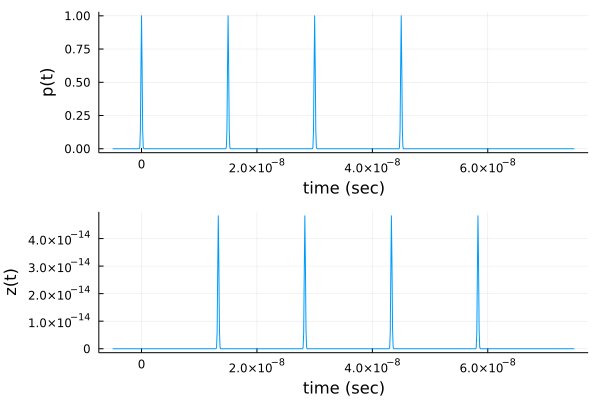
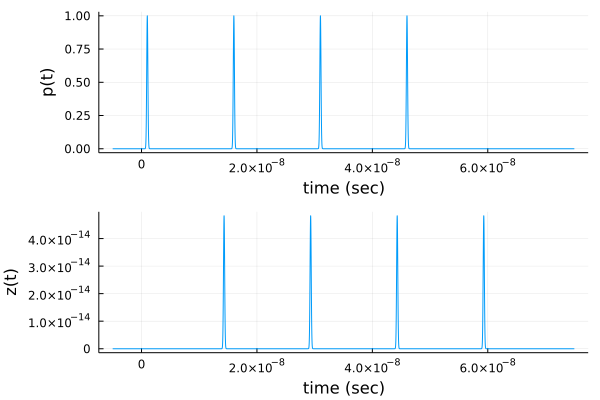
updated scneario C STATdir

diff --git a/docs/src/stationaryDirectionSource/stationaryDirSource.md b/docs/src/stationaryDirectionSource/stationaryDirSource.md
@@ -256,18 +256,19 @@ using Plots
 𝐩ₛ = [0.0, 0.0]
 𝐩ᵣ = [0.0, 0.0]
 T  = 15.0e-9
-p(t) = δn(t,1.0e-10) + δn(t-T,1.0e-10) + δn(t-2T,1.0e-10)+ δn(t-3T,1.0e-10)
+tₚ = 1.0e-9
+p(t) = δn(t-tₚ,1.0e-10) + δn(t-T-tₚ,1.0e-10) + δn(t-2T-tₚ,1.0e-10)+ δn(t-3T-tₚ,1.0e-10)
 α₁ = 0.7; 𝛏₁ = [2.0,0.0]
 α₂ = 0.7; 𝛏₂ = [-2.0,0.0]
 α₃ = 0.7; 𝛏₃ = [0.0,2.0]
 α₄ = 0.7; 𝛏₄ = [0.0,-2.0]
 f₀ = 1/4T
-𝐛(t) = [cos(2π*f₀*t),sin(2π*f₀*t)]
+𝐛(t) = [cos(2π*f₀*(t-tₚ)),sin(2π*f₀*(t-tₚ))]
 G(θ) = 𝒩ᵤ(θ, μ=0.0, σ=π/16)
 q = STATsourceD(𝐩ₛ,p,𝐛,G)
 r = pointReflector([𝛏₁,𝛏₂,𝛏₃,𝛏₄],[α₁,α₂,α₃,α₄],[q])
 z = STATreceiverD(r,𝐩ᵣ,𝐛,G)
-t = -5.0e-9:1.0e-10:75.0e-9
+t = -5.0e-9:1.0e-11:75.0e-9
 p1 = plot(t,p, xlab="time (sec)", ylab="p(t)", legend=:false)
 p2 = plot( t, z(t), xlab="time (sec)", ylab="z(t)", legend=:false)
 plot(p1,p2,layout=(2,1))
@@ -277,17 +278,17 @@ plot(p1,p2,layout=(2,1))
 
 ### Inverse Modeling
 
-Given the scenario C assumptions, we obtained the received signal, $z(t)$. Now we can estimate the reflector function by considering the transmitted signal as impulse train $p(t)=∑_{k=0}^{M-1}δ(t-kT)$ as follows
+Given the scenario C assumptions, we obtained the received signal, $z(t)$. Now we can estimate the reflector function by considering the transmitted signal as impulse train $p(t)=∑_{k=0}^{M-1}δ(t-t_p-kT)$ as follows
 
 We incorporated the time delays in the received signal, $z(t)$ with respect to each periodic impulse as follows
 
 $z_\mathrm{t} = z(t+kT)$ where T is period of the impulse train
 
-In order to consider the total time delay in the time-varying beam with respect to each periodic impulse, we computed the reflector function corresponding to each periodic impulse as follows
+In order to consider the transmitted time of the time-varying beam with respect to each periodic impulse, we computed the reflector function corresponding to each periodic impulse as follows
 
-$f_k(\bm{\xi})=\dfrac{z_\mathrm{t}\left(\frac{2\|\bm{\xi}-\mathbf{p}_\mathrm{s}\|}{\mathrm{c}}\right)\mathrm{D}_\mathrm{sk}(\bm{\xi})}{\mathrm{A}^2\big(\frac{\|\bm{\xi}-\mathbf{p}_\mathrm{s}\|}{\mathrm{c}}\big)}$
+$f_k(\bm{\xi})=\dfrac{z_\mathrm{t}\left(t_p+\frac{2\|\bm{\xi}-\mathbf{p}_\mathrm{s}\|}{\mathrm{c}}\right)\mathrm{D}_\mathrm{sk}(\bm{\xi})}{\mathrm{A}^2\big(\frac{\|\bm{\xi}-\mathbf{p}_\mathrm{s}\|}{\mathrm{c}}\big)}$
 
-where $\mathrm{D}_\mathrm{sk}(\bm{\xi}) = \mathbf{G}\big(∠(𝐛(\frac{2\|\bm{\xi}-\mathbf{p}_\mathrm{s}\|}{\mathrm{c}}+kT), \bm{\xi}.-\mathbf{p}_\mathrm{s})\big)$ 
+where $\mathrm{D}_\mathrm{sk}(\bm{\xi}) = \mathbf{G}\big(∠(𝐛(t_p-kT), \bm{\xi}.-\mathbf{p}_\mathrm{s})\big)$ 
 
 Finally, the reflector function for the scenario is given as follows
 
@@ -299,33 +300,34 @@ using Plots
 𝐩ₛ = [0.0, 0.0]
 𝐩ᵣ = [0.0, 0.0]
 T  = 15.0e-9
-p(t) = δn(t,1.0e-10) + δn(t-T,1.0e-10) + δn(t-2T,1.0e-10)+ δn(t-3T,1.0e-10)
+tₚ = 1.0e-9
+p(t) = δn(t-tₚ,1.0e-10) + δn(t-T-tₚ,1.0e-10) + δn(t-2T-tₚ,1.0e-10)+ δn(t-3T-tₚ,1.0e-10)
 α₁ = 0.7; 𝛏₁ = [2.0,0.0]
 α₂ = 0.7; 𝛏₂ = [-2.0,0.0]
 α₃ = 0.7; 𝛏₃ = [0.0,2.0]
 α₄ = 0.7; 𝛏₄ = [0.0,-2.0]
 f₀ = 1/4T
-𝐛(t) = [cos(2π*f₀*t),sin(2π*f₀*t)]
+𝐛(t) = [cos(2π*f₀*(t-tₚ)),sin(2π*f₀*(t-tₚ))]
 G(θ) = 𝒩ᵤ(θ, μ=0.0, σ=π/16)
 q = STATsourceD(𝐩ₛ,p,𝐛,G)
 r = pointReflector([𝛏₁,𝛏₂,𝛏₃,𝛏₄],[α₁,α₂,α₃,α₄],[q])
 z = STATreceiverD(r,𝐩ᵣ,𝐛,G)
 zₜ = PulseTrainReceivers(z,T)
-zₜ = PulseTrainReceivers(z,T)
-Dₛ₁(ξ::Vector{Float64}) = G(angleBetween(𝐛(2norm(ξ-𝐩ₛ)/c), ξ.-𝐩ₛ))
-f₁(ξ::Vector{Float64}) = (zₜ(2(norm(ξ-𝐩ₛ))/c).*Dₛ₁(ξ))/(A(norm(ξ-𝐩ₛ)/c))^2
-Dₛ₂(ξ::Vector{Float64}) = G(angleBetween(𝐛(T+2norm(ξ-𝐩ₛ)/c), ξ.-𝐩ₛ))
-f₂(ξ::Vector{Float64}) = (zₜ(2(norm(ξ-𝐩ₛ))/c).*Dₛ₂(ξ))/(A(norm(ξ-𝐩ₛ)/c))^2
-Dₛ₃(ξ::Vector{Float64}) = G(angleBetween(𝐛(2T+2norm(ξ-𝐩ₛ)/c), ξ.-𝐩ₛ))
-f₃(ξ::Vector{Float64}) = (zₜ(2(norm(ξ-𝐩ₛ))/c).*Dₛ₃(ξ))/(A(norm(ξ-𝐩ₛ)/c))^2
-Dₛ₄(ξ::Vector{Float64}) = G(angleBetween(𝐛(3T+2norm(ξ-𝐩ₛ)/c), ξ.-𝐩ₛ))
-f₄(ξ::Vector{Float64}) = (zₜ(2(norm(ξ-𝐩ₛ))/c).*Dₛ₄(ξ))/(A(norm(ξ-𝐩ₛ)/c))^2
+Dₛ₁(ξ::Vector{Float64}) = G(angleBetween(𝐛(tₚ), ξ.-𝐩ₛ))
+f₁(ξ::Vector{Float64}) = (zₜ(tₚ+2(norm(ξ-𝐩ₛ))/c).*Dₛ₁(ξ))/(A(norm(ξ-𝐩ₛ)/c))^2
+Dₛ₂(ξ::Vector{Float64}) = G(angleBetween(𝐛(tₚ-T), ξ.-𝐩ₛ))
+f₂(ξ::Vector{Float64}) = (zₜ(tₚ+2(norm(ξ-𝐩ₛ))/c).*Dₛ₂(ξ))/(A(norm(ξ-𝐩ₛ)/c))^2
+Dₛ₃(ξ::Vector{Float64}) = G(angleBetween(𝐛(tₚ-2T), ξ.-𝐩ₛ))
+f₃(ξ::Vector{Float64}) = (zₜ(tₚ+2(norm(ξ-𝐩ₛ))/c).*Dₛ₃(ξ))/(A(norm(ξ-𝐩ₛ)/c))^2
+Dₛ₄(ξ::Vector{Float64}) = G(angleBetween(𝐛(tₚ-3T), ξ.-𝐩ₛ))
+f₄(ξ::Vector{Float64}) = (zₜ(tₚ+2(norm(ξ-𝐩ₛ))/c).*Dₛ₄(ξ))/(A(norm(ξ-𝐩ₛ)/c))^2
 f(ξ::Vector{Float64}) = f₁(ξ).+ f₂(ξ) .+f₃(ξ).+f₄(ξ)
 p11 = inverse2Dplot([q],r,[z],f₁)
 p12 = inverse2Dplot([q],r,[z],f₂)
 p13 = inverse2Dplot([q],r,[z],f₃)
 p14 = inverse2Dplot([q],r,[z],f₄)
 plot(p11,p12,p13,p14,layout=(2,2),size=(1000,1000))
+inverse2Dplot([q],r,[z],f)
 ```
 ![](https://raw.githubusercontent.com/NMSU-ISA/LTVsystems/main/docs/src/assets/scenarioESTAT_simulationa2.png)
 

diff --git a/docs/src/omniDirectionalLTI/omnidirLTIsource.md b/docs/src/omniDirectionalLTI/omnidirLTIsource.md
@@ -392,7 +392,7 @@ p13 = inverse2Dplot([q],r,[z₁,z₂,z₃,z₄,z₅],f₃)
 p14 = inverse2Dplot([q],r,[z₁,z₂,z₃,z₄,z₅],f₄)
 p15 = inverse2Dplot([q],r,[z₁,z₂,z₃,z₄,z₅],f₅)
 p6 = inverse2Dfinalplot([q],[z₁,z₂,z₃,z₄,z₅],f)
-plot(p11,p12,p13,p14,p15,p6,layout=(3,2),size=(1000,1000))
+plot(p11,p12,p13,p14,p15,p6,layout=(3,2),size=(2000,2000))
 ```
 ![](https://raw.githubusercontent.com/NMSU-ISA/LTVsystems/main/docs/src/assets/scenarioD_simulation.png)
 
